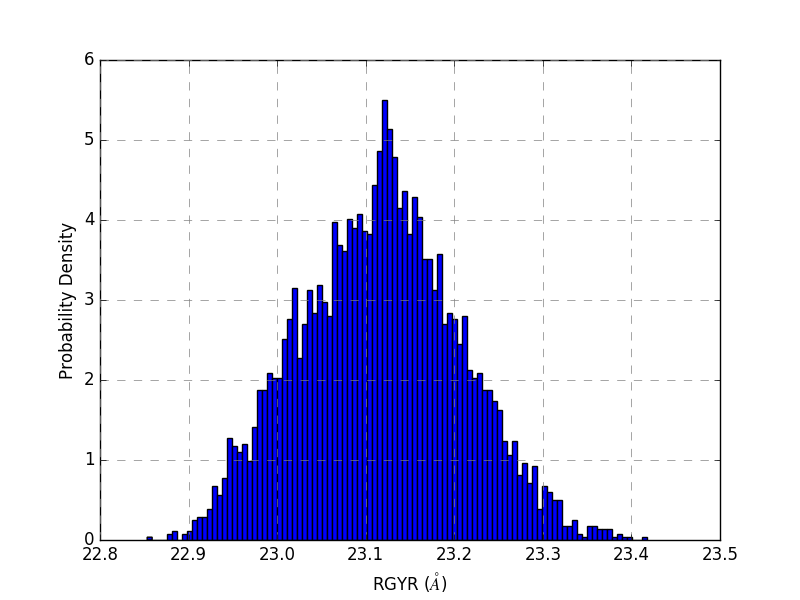
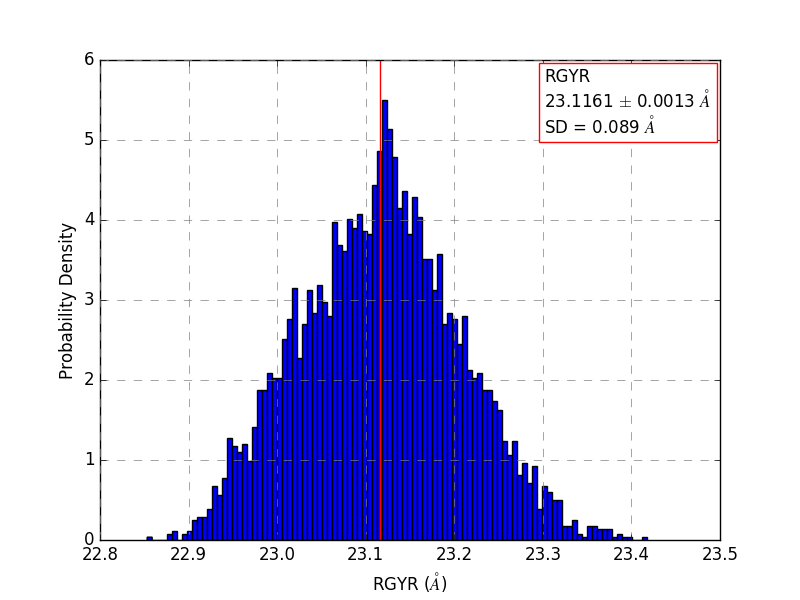
updated hist1d function with new kwargs and average calculation

Changed region(s): [[0.6562, 0.09, 0.9062, 0.24], [0.4688, 0.12, 0.5, 0.9]]

diff --git a/plotting_functions.py b/plotting_functions.py
@@ -33,7 +33,7 @@ def plot_1d(xdata, ydata, color, x_axis, y_axis, system, analysis, average = Fal
 	t0: index to begin averaging from; Default is 0
 	
 	kwargs:
-		xunits, yunits: string with correct math text describing the units for the x data
+		xunits, yunits: string with correct math text describing the units for the x/y data
 		x_lim, y_lim: list w/ two elements, setting the limits of the x/y ranges of plot
 		plt_title: string to be added as the plot title
 
@@ -67,13 +67,13 @@ def plot_1d(xdata, ydata, color, x_axis, y_axis, system, analysis, average = Fal
 		SDOM = SD/sqrt(len(ydata[t0:]))
 
 		plt.axhline(avg, xmin=0.0, xmax=1.0, c='r')
-		plt.figtext(0.775, 0.815, '%s\n%6.4f $\\pm$ %6.4f %s \nSD = %4.3f %s' %(analysis, avg, SDOM, y_units, SD, y_units), bbox=dict(boxstyle='square', ec='r', fc='w'), fontsize=12)
+		plt.figtext(0.680, 0.780, '%s\n%6.4f $\\pm$ %6.4f %s \nSD = %4.3f %s' %(analysis, avg, SDOM, y_units, SD, y_units), bbox=dict(boxstyle='square', ec='r', fc='w'), fontsize=12)
 
-	plt.savefig('%s.%s.tevol.png' %(system,analysis))
+	plt.savefig('%s.%s.plot1d.png' %(system,analysis))
 	plt.close()
 
 
-def hist1d(data, x_axis, num_b, system, analysis, norm):
+def hist1d(data, x_axis, num_b, system, analysis, norm = False, average = False, t0 = 0, **kwargs):
 	""" Creates a 1D histogram:
 
 	Usage: hist1d(data, x_axis, num_b, system, analysis, norm)
@@ -85,14 +85,44 @@ def hist1d(data, x_axis, num_b, system, analysis, norm):
 	system: descriptor for the system analyzed
 	analysis: descriptor for the analysis performed and plotted
 	norm = [False][True]; if False, plotting a frequency of data; if True, plotting a probability density
+	average: [False|True]; Default is False; if set to True, the function will calc the average, standard dev, and standard dev of mean of the y-data
+	t0: index to begin averaging from; Default is 0
+
+	kwargs:
+		xunits: string with correct math text describing the units for the x data
+		x_lim, y_lim: list w/ two elements, setting the limits of the x/y ranges of plot
+		plt_title: string to be added as the plot title
 
 	"""
 	
+	# INITIATING THE PLOT...
 	events, edges, patches = plt.hist(data, bins=num_b, histtype = 'bar', normed=norm)
+	
+	# READING IN KWARG DICTIONARY INTO SPECIFIC VARIABLES
+	for name, value in kwargs.items():
+		if name == 'xunits':
+			x_units = value
+			x_axis = '%s (%s)' %(x_axis, value)
+		elif name == 'x_lim':
+			plt.xlim(value)
+		elif name == 'y_lim':
+			plt.ylim(value)
+		elif name == 'plt_title':
+			plt.title(r'%s' %(value), size='14')
+	
 	plt.grid(b=True, which='major', axis='both', color='#808080', linestyle='--')
 	plt.xlabel(r'%s' %(x_axis), size=12)
-#	plt.title(r'something here...' %(system), size='14')
 
+	# CALCULATING THE AVERAGE/SD/SDOM OF THE Y-DATA
+	if average != False:
+		avg = np.sum(data[t0:])/len(data[t0:])
+		SD = stdev(data[t0:])
+		SDOM = SD/sqrt(len(data[t0:]))
+
+		plt.axvline(avg, ymin=0.0, ymax=1.0, c='r')
+		plt.figtext(0.680, 0.780, '%s\n%6.4f $\\pm$ %6.4f %s \nSD = %4.3f %s' %(analysis, avg, SDOM, x_units, SD, x_units), bbox=dict(boxstyle='square', ec='r', fc='w'), fontsize=12)
+	
+	
 	if norm == True:
 		plt.ylabel('Probability Density')
 		plt.savefig('%s.%s.prob1d.png' %(system,analysis))

diff --git a/rgyr_plotting.py b/rgyr_plotting.py
@@ -26,11 +26,13 @@ for i in range(nSteps):
 for i in range(len(sel)):
 	selection = sel[i][0]
 
-	plot_1d(time[:], datalist1[:,i], 'k', 'Time', 'RGYR', '%02d.%s.%s' %(i, system, selection), 'RGYR', xunits = 'ns', yunits = '$\AA$')
+	#plot_1d(time[:], datalist1[:,i], 'k', 'Time', 'RGYR', '%02d.%s.%s' %(i, system, selection), 'RGYR', xunits = 'ns', yunits = '$\AA$')
+	
+	plot_1d(time[:], datalist1[:,i], 'k', 'Time', 'RGYR', '%02d.%s.%s' %(i, system, selection), 'RGYR', average = True, xunits = 'ns', yunits = '$\AA$')
 
-	hist1d(datalist1[:,i], 'RGYR ($\AA$)', 100, '%02d.%s.%s' %(i, system, selection), 'RGYR', False)
+	hist1d(datalist1[:,i], 'RGYR', 100, '%02d.%s.%s' %(i, system, selection), 'RGYR', xunits = '$\AA$')
 
-	hist1d(datalist1[:,i], 'RGYR ($\AA$)', 100, '%02d.%s.%s' %(i, system, selection), 'RGYR', True)
+	hist1d(datalist1[:,i], 'RGYR', 100, '%02d.%s.%s' %(i, system, selection), 'RGYR', norm = True, average = True, xunits = '$\AA$')
 
 	scat_hist(time[:], datalist1[:,i], 'k', 'Time (ns)', 'RGYR ($\AA$)', '%02d.%s.%s' %(i, system, selection), 'RGYR', 100)
 
